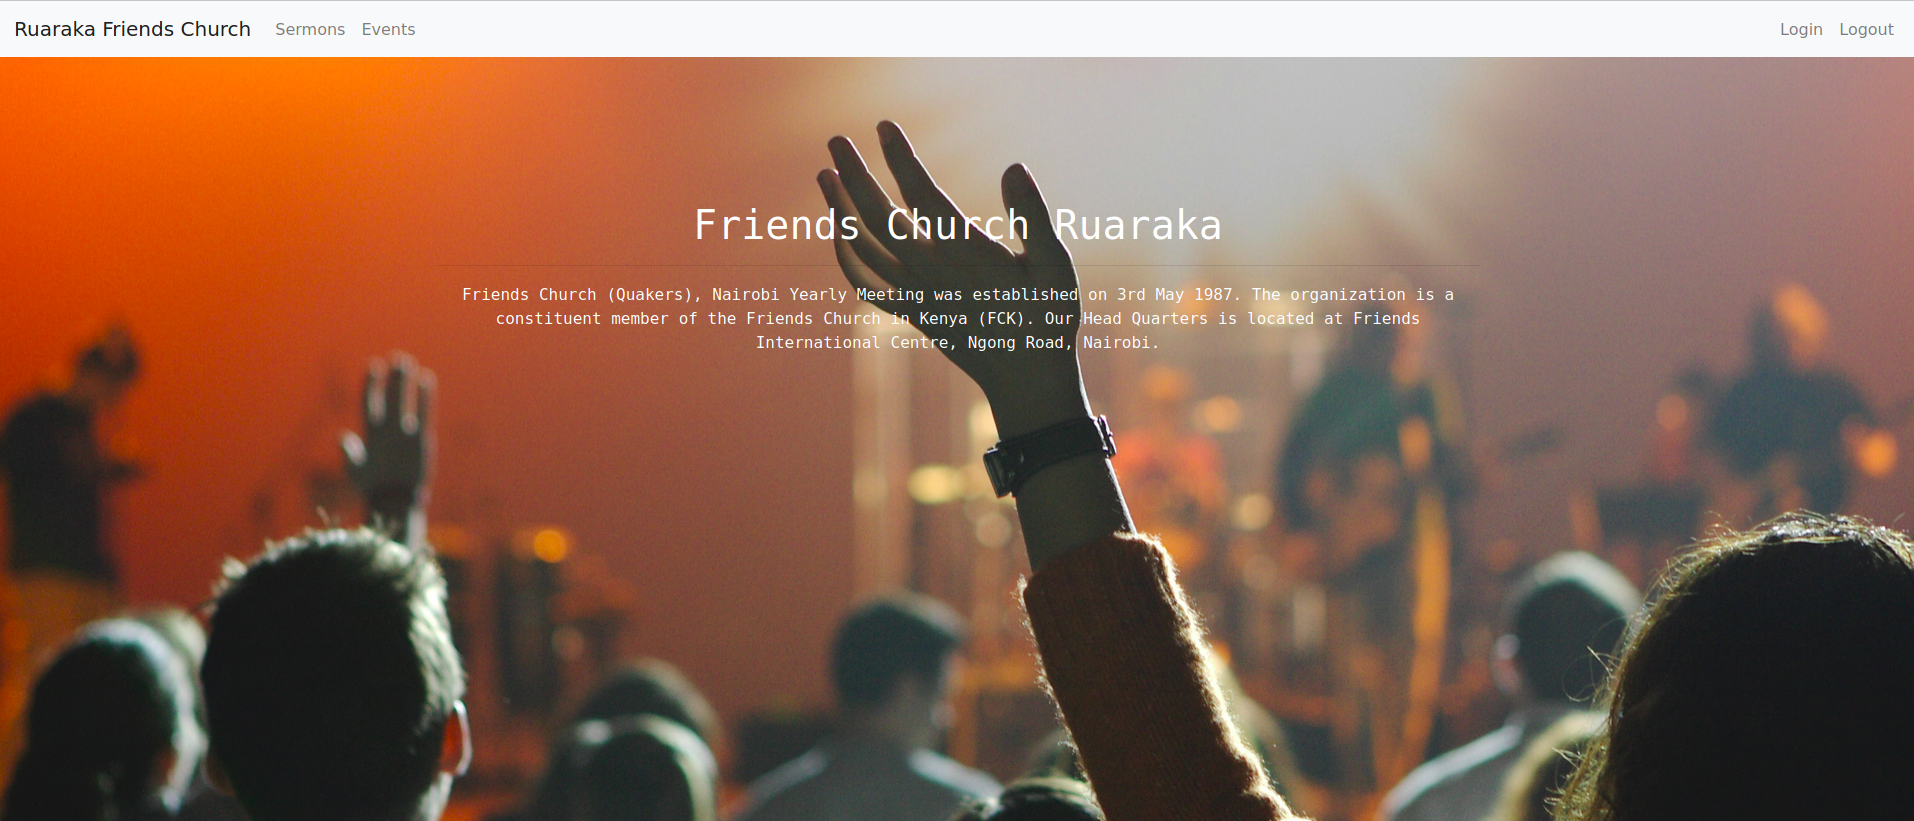
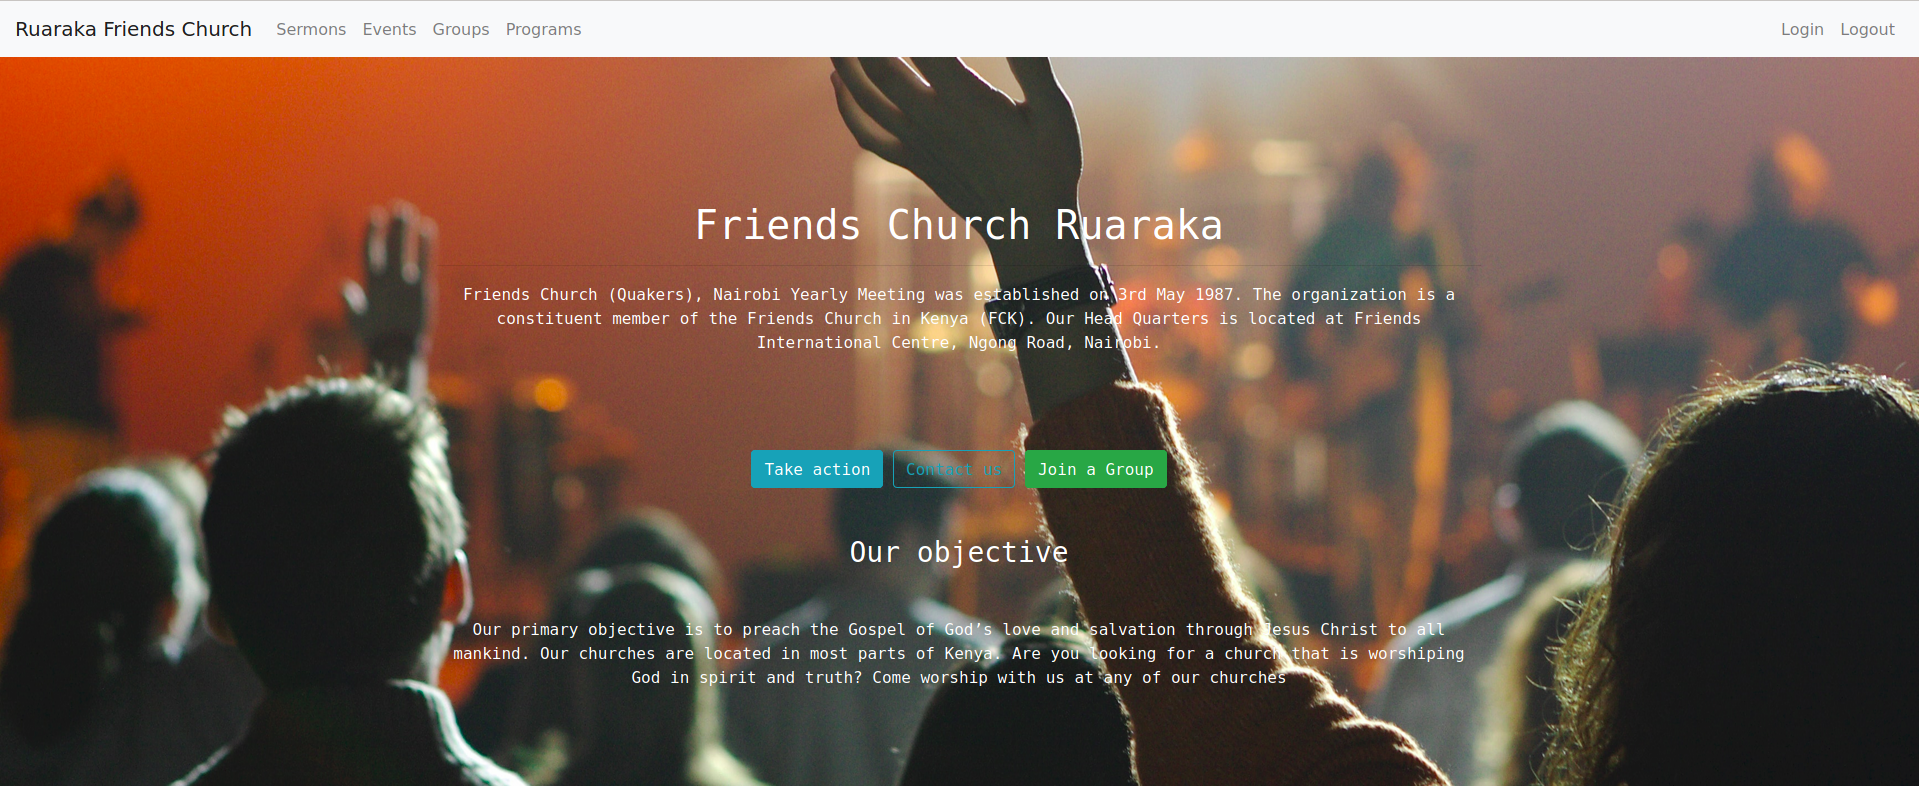
Added styles on the landing page

diff --git a/app/templates/index.html b/app/templates/index.html
@@ -2,14 +2,26 @@
 
 {% block content  %}
 <section id="section_home_top">
-	<div class="container p-5">
-	<div class="transparent pt-5">
-		<h1 class="text-center pt-5">Friends Church Ruaraka</h1>
-		<hr>
-		<p class="text-center">
-			Friends Church (Quakers), Nairobi Yearly Meeting was established on 3rd May 1987.  The organization is a constituent member of the Friends Church in Kenya (FCK). Our Head Quarters is located at Friends International Centre, Ngong Road, Nairobi.
-		</p>
-	</div>
+	<div class="container p-5 mb-5">
+		<div class="pt-5 mb-5">
+			<h1 class="text-center pt-5">Friends Church Ruaraka</h1>
+			<hr>
+			<p class="text-center">
+				Friends Church (Quakers), Nairobi Yearly Meeting was established on 3rd May 1987.  The organization is a constituent member of the Friends Church in Kenya (FCK). Our Head Quarters is located at Friends International Centre, Ngong Road, Nairobi.
+			</p>
+		</div>
+	
+		<div class="pt-5 mb-5">
+			<div class="text-center mb-5">
+				<a href="" class="btn btn-info ">Take action</a>
+				<a href="" class="btn btn-outline-info ">Contact us</a>
+				<a href="" class="btn btn-success">Join a Group</a>
+				<h3 class="pt-5">Our objective</h3>
+				<p class="mt-5 mb-5">
+					Our primary objective is to preach the Gospel of God’s love and salvation through Jesus Christ to all mankind. Our churches are located in most parts of Kenya. Are you looking for a church that is worshiping God in spirit and truth? Come worship with us at any of our churches
+				</p>
+			</div>
+		</div>
 </div>
 </section>
 {% endblock content  %}

diff --git a/app/templates/_navbar.html b/app/templates/_navbar.html
@@ -11,6 +11,12 @@
       <li class="nav-item">
         <a class="nav-link" href="#">Events</a>
       </li>
+       <li class="nav-item">
+        <a class="nav-link" href="#">Groups</a>
+      </li>
+       <li class="nav-item">
+        <a class="nav-link" href="#">Programs</a>
+      </li>
     </ul>
     <ul class="navbar-nav ml-auto">
     

diff --git a/app/static/css/main.css b/app/static/css/main.css
@@ -11,7 +11,7 @@ body{
 	background-repeat: no-repeat;
 	background-size: cover;
 	background-position: bottom;
-	min-height: 90vh;
+	min-height: auto;
 	color:white;
 
 }
